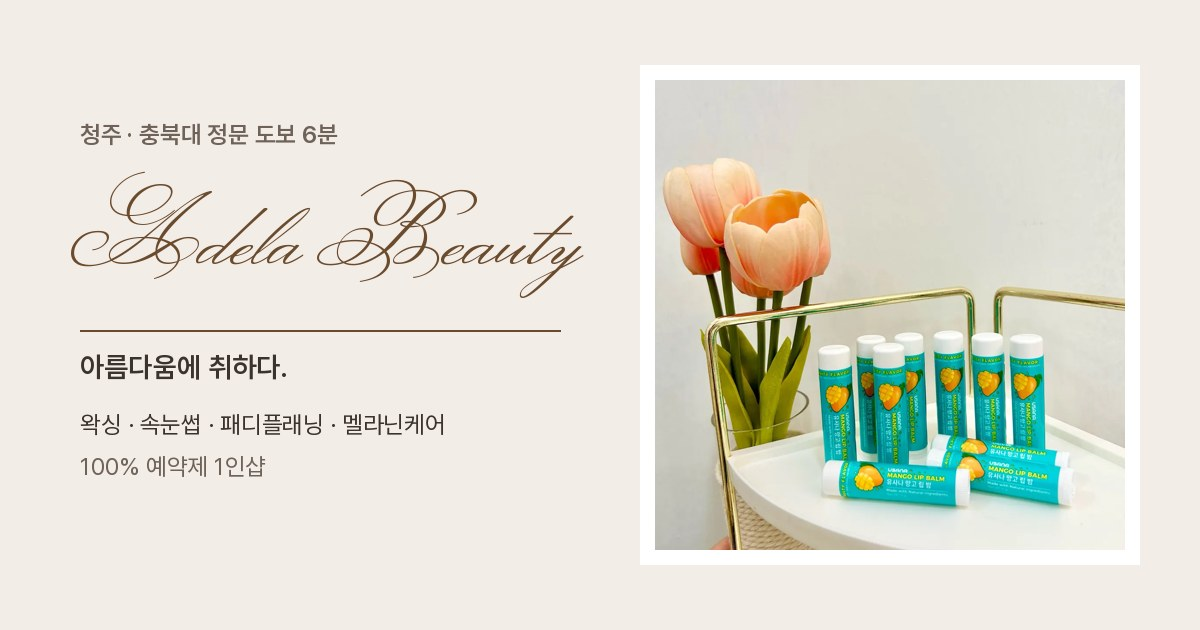
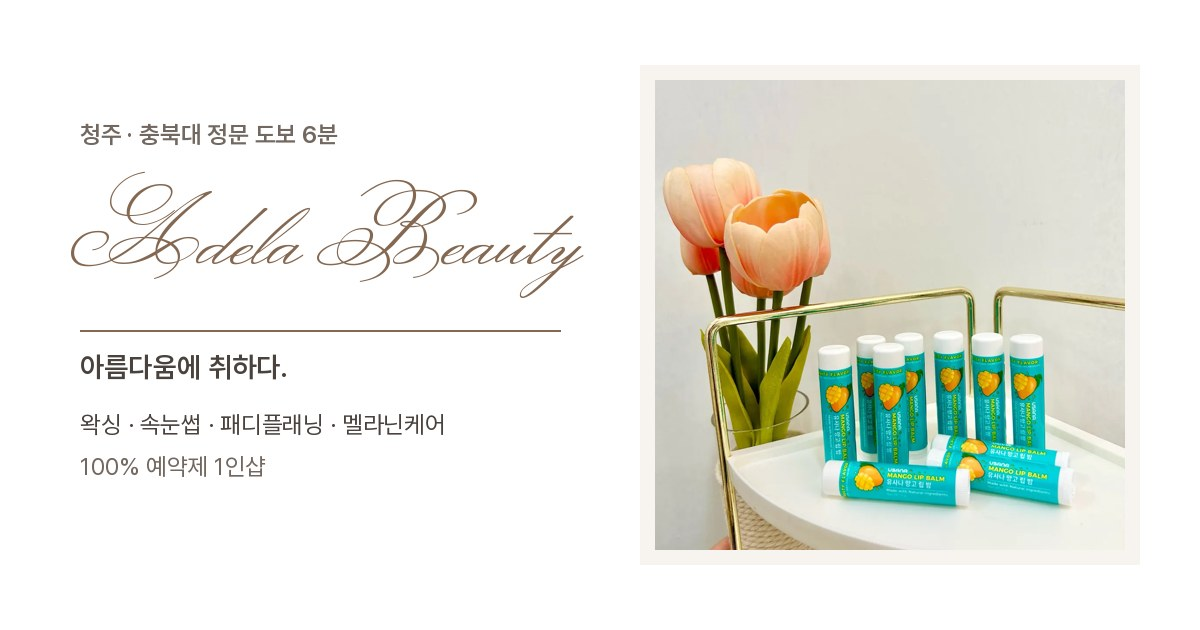
Add files via upload

diff --git a/index.html b/index.html
@@ -16,7 +16,7 @@
 <meta property="og:image:width" content="1200" />
 <meta property="og:image:height" content="630" />
 <meta name="twitter:card" content="summary_large_image" />
-<meta name="theme-color" content="#F3EDE7" />
+<meta name="theme-color" content="#FFFFFF" />
 <link rel="icon" href="favicon.png" type="image/png" />
 <!-- 시안 도메인 = adelabeauty-sample.lgt3232.workers.dev. 고객 인계 시 grep lgt3232 → canonical·og:url·og:image·JSON-LD url/image 치환 -->
 <script type="application/ld+json">
@@ -39,14 +39,16 @@
 @font-face{ font-family:"AD Sans"; font-weight:300 700; font-display:swap; src:url("ad-pretendard.woff2") format("woff2"); }
 
 :root{
-  --cream:#F3EDE7;
+  --cream:#F7F3EE;
   --paper:#FFFFFF;
-  --ink:#3B332D;
-  --soft:#6E6259;
-  --brown:#6B4B2E;
-  --sage:#9AA697;
-  --chip:#F4F2F0;
-  --line:#E4DAD0;
+  --card:#FFFFFF;
+  --ink:#4A423C;
+  --soft:#736860;
+  --brown:#846852;
+  --brown-dk:#6E5644;
+  --sage:#B3BDB0;
+  --chip:#F7F3EE;
+  --line:#EAE3DB;
   --script:"AD Script","AD Sans",-apple-system,"Apple SD Gothic Neo","Malgun Gothic",sans-serif;
   --sans:"AD Sans",-apple-system,BlinkMacSystemFont,"Apple SD Gothic Neo","Malgun Gothic",sans-serif;
   --wrap:1080px;
@@ -54,7 +56,7 @@
 }
 *,*::before,*::after{ box-sizing:border-box; }
 html{ -webkit-text-size-adjust:100%; }
-body{ margin:0; background:var(--cream); color:var(--ink); font-family:var(--sans); font-weight:400; font-size:16px; line-height:1.8; word-break:keep-all; overflow-wrap:break-word; }
+body{ margin:0; background:var(--paper); color:var(--ink); font-family:var(--sans); font-weight:400; font-size:16px; line-height:1.8; word-break:keep-all; overflow-wrap:break-word; }
 img{ max-width:100%; height:auto; display:block; }
 a{ color:inherit; text-decoration:none; }
 h1,h2,h3,p,ul,dl,dd{ margin:0; }
@@ -62,6 +64,8 @@ ul{ padding:0; list-style:none; }
 :focus-visible{ outline:2px solid var(--brown); outline-offset:3px; }
 .wrap{ width:min(100% - 40px, var(--wrap)); margin:0 auto; }
 .sec{ padding:88px 0; }
+.beige{ background:var(--cream); --card:#FFFFFF; --chip:#F7F3EE; }
+.white{ background:var(--paper); --card:#F7F3EE; --chip:#FFFFFF; }
 @media (min-width:900px){ .sec{ padding:128px 0; } }
 
 /* 섹션 머리: 스크립트 영문 + 갈색 가는 선 */
@@ -76,10 +80,10 @@ ul{ padding:0; list-style:none; }
 .btn{ display:inline-flex; align-items:center; justify-content:center; gap:8px; min-height:50px; padding:0 24px; border:1px solid var(--brown); border-radius:var(--r); color:var(--brown); font-size:.94rem; font-weight:600; background:transparent; transition:background .2s ease, color .2s ease, transform .15s ease; }
 .btn.fill{ background:var(--brown); color:#FFFFFF; }
 .btn:active{ transform:scale(.98); }
-@media (hover:hover){ .btn:not(.fill):hover{ background:var(--brown); color:#FFFFFF; } .btn.fill:hover{ background:#4F3620; border-color:#4F3620; } }
+@media (hover:hover){ .btn:not(.fill):hover{ background:var(--brown); color:#FFFFFF; } .btn.fill:hover{ background:var(--brown-dk); border-color:var(--brown-dk); } }
 
 /* 헤더 */
-.site-head{ position:sticky; top:0; z-index:50; background:rgba(243,237,231,.96); border-bottom:1px solid var(--line); }
+.site-head{ position:sticky; top:0; z-index:50; background:rgba(255,255,255,.96); border-bottom:1px solid var(--line); }
 .site-head .wrap{ display:flex; align-items:center; justify-content:space-between; gap:16px; min-height:64px; }
 .brand{ display:flex; align-items:baseline; gap:10px; }
 .brand b{ font-family:var(--script); font-weight:400; font-size:2.1rem; line-height:1; color:var(--brown); }
@@ -107,14 +111,14 @@ ul{ padding:0; list-style:none; }
 .hero .cta{ display:flex; flex-wrap:wrap; gap:8px; margin-top:30px; }
 .hero .note{ margin-top:18px; font-size:.9rem; color:var(--soft); }
 .hero .note b{ color:var(--ink); font-weight:600; }
-.hero figure{ margin:0; padding:14px; background:var(--paper); }
+.hero figure{ margin:0; padding:14px; background:var(--cream); }
 .hero figure img{ width:100%; aspect-ratio:4/5; object-fit:cover; border-radius:var(--r); }
 
 /* 케어 */
 .care-grid{ display:grid; grid-template-columns:minmax(0,1fr); gap:20px; }
 @media (min-width:640px){ .care-grid{ grid-template-columns:repeat(2,minmax(0,1fr)); } }
 @media (min-width:900px){ .care-grid{ grid-template-columns:repeat(3,minmax(0,1fr)); gap:24px; } }
-.card{ background:var(--paper); padding:18px 18px 24px; }
+.card{ background:var(--card); padding:18px 18px 24px; }
 .card img{ width:100%; aspect-ratio:1; object-fit:cover; border-radius:var(--r); }
 .card .no{ display:block; margin-top:18px; font-size:.8rem; font-weight:600; color:var(--soft); letter-spacing:.08em; }
 .card .en{ display:block; font-family:var(--script); font-size:2.3rem; line-height:1.15; color:var(--brown); }
@@ -129,7 +133,7 @@ ul{ padding:0; list-style:none; }
 /* 리뷰 */
 .reviews{ display:grid; grid-auto-flow:column; grid-auto-columns:minmax(0,86%); gap:14px; overflow-x:auto; scroll-snap-type:x mandatory; padding-bottom:10px; scrollbar-width:thin; }
 @media (min-width:900px){ .reviews{ grid-auto-flow:row; grid-auto-columns:auto; grid-template-columns:repeat(2,minmax(0,1fr)); gap:24px; overflow:visible; } }
-.review{ scroll-snap-align:start; background:var(--paper); padding:26px 24px; display:flex; flex-direction:column; gap:12px; }
+.review{ scroll-snap-align:start; background:var(--card); padding:26px 24px; display:flex; flex-direction:column; gap:12px; }
 .review .top{ display:flex; justify-content:space-between; align-items:center; gap:12px; }
 .review .who{ font-weight:600; font-size:.95rem; }
 .review .mini{ display:flex; gap:3px; }
@@ -142,18 +146,18 @@ ul{ padding:0; list-style:none; }
 /* 가격 */
 .price-grid{ display:grid; grid-template-columns:minmax(0,1fr); gap:24px; }
 @media (min-width:900px){ .price-grid{ grid-template-columns:repeat(2,minmax(0,1fr)); gap:24px; } }
-.price{ background:var(--paper); padding:26px 24px 12px; }
+.price{ background:var(--card); padding:26px 24px 12px; }
 .price h3{ display:flex; align-items:baseline; justify-content:space-between; gap:12px; padding-bottom:10px; border-bottom:1px solid var(--brown); font-size:1.04rem; font-weight:600; }
 .price h3 span{ font-family:var(--script); font-weight:400; font-size:1.9rem; line-height:1; color:var(--brown); }
 .price dl div{ display:grid; grid-template-columns:minmax(0,1fr) auto; gap:14px; padding:12px 0; border-bottom:1px solid var(--line); font-size:.94rem; }
 .price dl div:last-child{ border-bottom:0; }
 .price dt small{ display:block; font-size:.82rem; color:var(--soft); }
 .price dd{ font-variant-numeric:tabular-nums; white-space:nowrap; font-weight:500; }
-.price-note{ margin-top:24px; padding:20px 22px; border:1px solid var(--brown); display:grid; gap:12px; font-size:.94rem; }
+.price-note{ margin-top:24px; padding:20px 22px; background:var(--paper); border:1px solid var(--brown); display:grid; gap:12px; font-size:.94rem; }
 @media (min-width:900px){ .price-note{ grid-template-columns:minmax(0,1fr) auto; align-items:center; } }
 
 /* 예약 안내 */
-.book{ background:var(--paper); padding:30px 26px; display:grid; gap:24px; }
+.book{ background:var(--card); padding:30px 26px; display:grid; gap:24px; }
 @media (min-width:900px){ .book{ grid-template-columns:minmax(0,1fr) auto; align-items:center; padding:40px 44px; } }
 .book ul{ display:grid; gap:8px; }
 .book li{ position:relative; padding-left:16px; color:var(--ink); }
@@ -176,14 +180,14 @@ ul{ padding:0; list-style:none; }
 @media (min-width:768px){ .map{ height:auto; aspect-ratio:4/3; } }
 
 /* 푸터 */
-.foot{ border-top:1px solid var(--brown); padding:52px 0 calc(110px + env(safe-area-inset-bottom)); text-align:center; font-size:.86rem; color:var(--soft); }
+.foot{ background:var(--cream); border-top:1px solid var(--line); padding:52px 0 calc(110px + env(safe-area-inset-bottom)); text-align:center; font-size:.86rem; color:var(--soft); }
 @media (min-width:900px){ .foot{ padding:60px 0; } }
 .foot .logo{ font-family:var(--script); font-size:2.6rem; line-height:1; color:var(--brown); }
 .foot p + p{ margin-top:6px; }
 .foot a{ text-decoration:underline; text-underline-offset:3px; }
 
 /* 모바일 하단 바 */
-.quick{ position:fixed; left:0; right:0; bottom:0; z-index:60; display:grid; grid-template-columns:minmax(0,1.3fr) minmax(0,1fr) minmax(0,1fr); gap:6px; padding:8px 10px calc(8px + env(safe-area-inset-bottom)); background:#F3EDE7; border-top:1px solid var(--line); }
+.quick{ position:fixed; left:0; right:0; bottom:0; z-index:60; display:grid; grid-template-columns:minmax(0,1.3fr) minmax(0,1fr) minmax(0,1fr); gap:6px; padding:8px 10px calc(8px + env(safe-area-inset-bottom)); background:#FFFFFF; border-top:1px solid var(--line); }
 .quick a{ display:flex; align-items:center; justify-content:center; min-height:48px; border:1px solid var(--brown); border-radius:var(--r); color:var(--brown); font-size:.88rem; font-weight:600; background:#FFFFFF; }
 .quick a.fill{ background:var(--brown); color:#FFFFFF; }
 @media (min-width:900px){ .quick{ display:none; } }
@@ -230,7 +234,7 @@ ul{ padding:0; list-style:none; }
     </div>
   </section>
 
-  <section class="sec" id="care" aria-labelledby="care-h">
+  <section class="sec beige" id="care" aria-labelledby="care-h">
     <div class="wrap">
       <div class="head reveal"><span class="script" aria-hidden="true">Care</span><h2 id="care-h">시술 안내</h2></div>
       <div class="care-grid">
@@ -267,7 +271,7 @@ ul{ padding:0; list-style:none; }
     </div>
   </section>
 
-  <section class="sec" id="review" aria-labelledby="review-h">
+  <section class="sec white" id="review" aria-labelledby="review-h">
     <div class="wrap">
       <div class="head reveal">
         <div><span class="script" aria-hidden="true">Review</span><h2 id="review-h" class="sr-only">고객 리뷰</h2></div>
@@ -296,7 +300,7 @@ ul{ padding:0; list-style:none; }
     </div>
   </section>
 
-  <section class="sec" id="price" aria-labelledby="price-h">
+  <section class="sec beige" id="price" aria-labelledby="price-h">
     <div class="wrap">
       <div class="head reveal"><span class="script" aria-hidden="true">Price</span><h2 id="price-h">기본 가격</h2></div>
       <div class="price-grid">
@@ -351,7 +355,7 @@ ul{ padding:0; list-style:none; }
     </div>
   </section>
 
-  <section class="sec" id="book" aria-labelledby="book-h">
+  <section class="sec white" id="book" aria-labelledby="book-h">
     <div class="wrap">
       <div class="head reveal"><span class="script" aria-hidden="true">Booking</span><h2 id="book-h">예약 안내</h2></div>
       <div class="book reveal">
@@ -369,7 +373,7 @@ ul{ padding:0; list-style:none; }
     </div>
   </section>
 
-  <section class="sec visit" id="visit" aria-labelledby="visit-h">
+  <section class="sec beige visit" id="visit" aria-labelledby="visit-h">
     <div class="wrap">
       <div class="head reveal"><span class="script" aria-hidden="true">Visit</span><h2 id="visit-h">오시는 길</h2></div>
       <div class="visit-grid">
